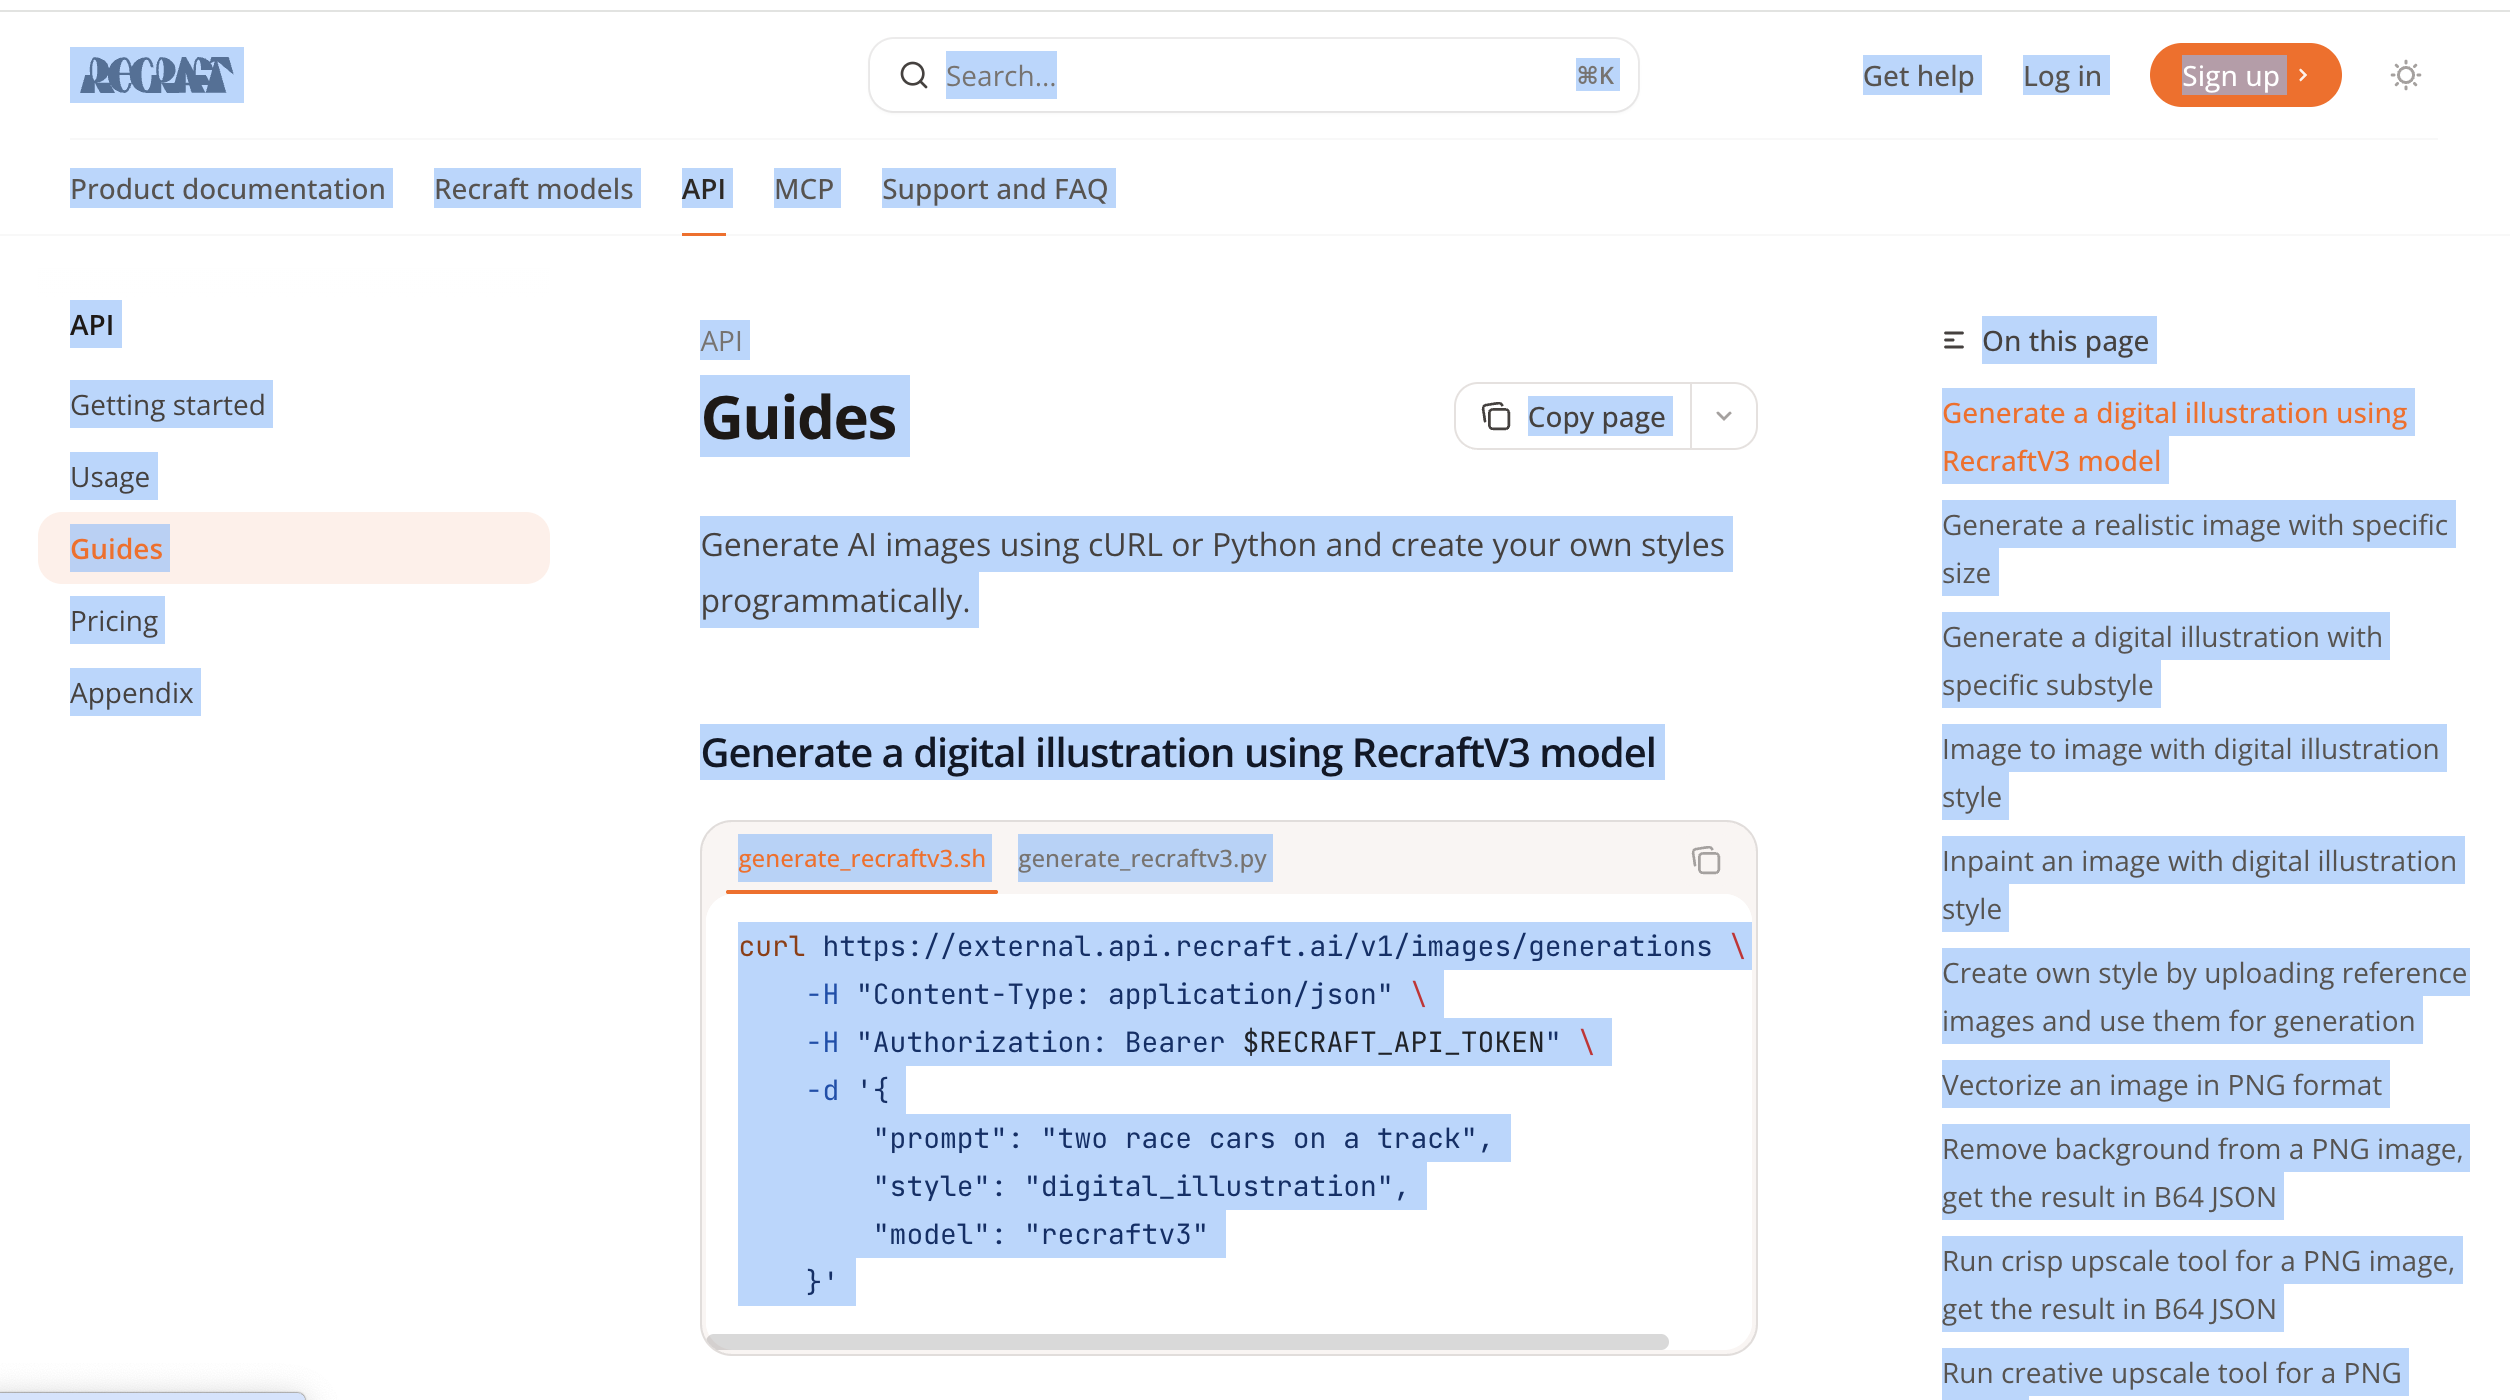
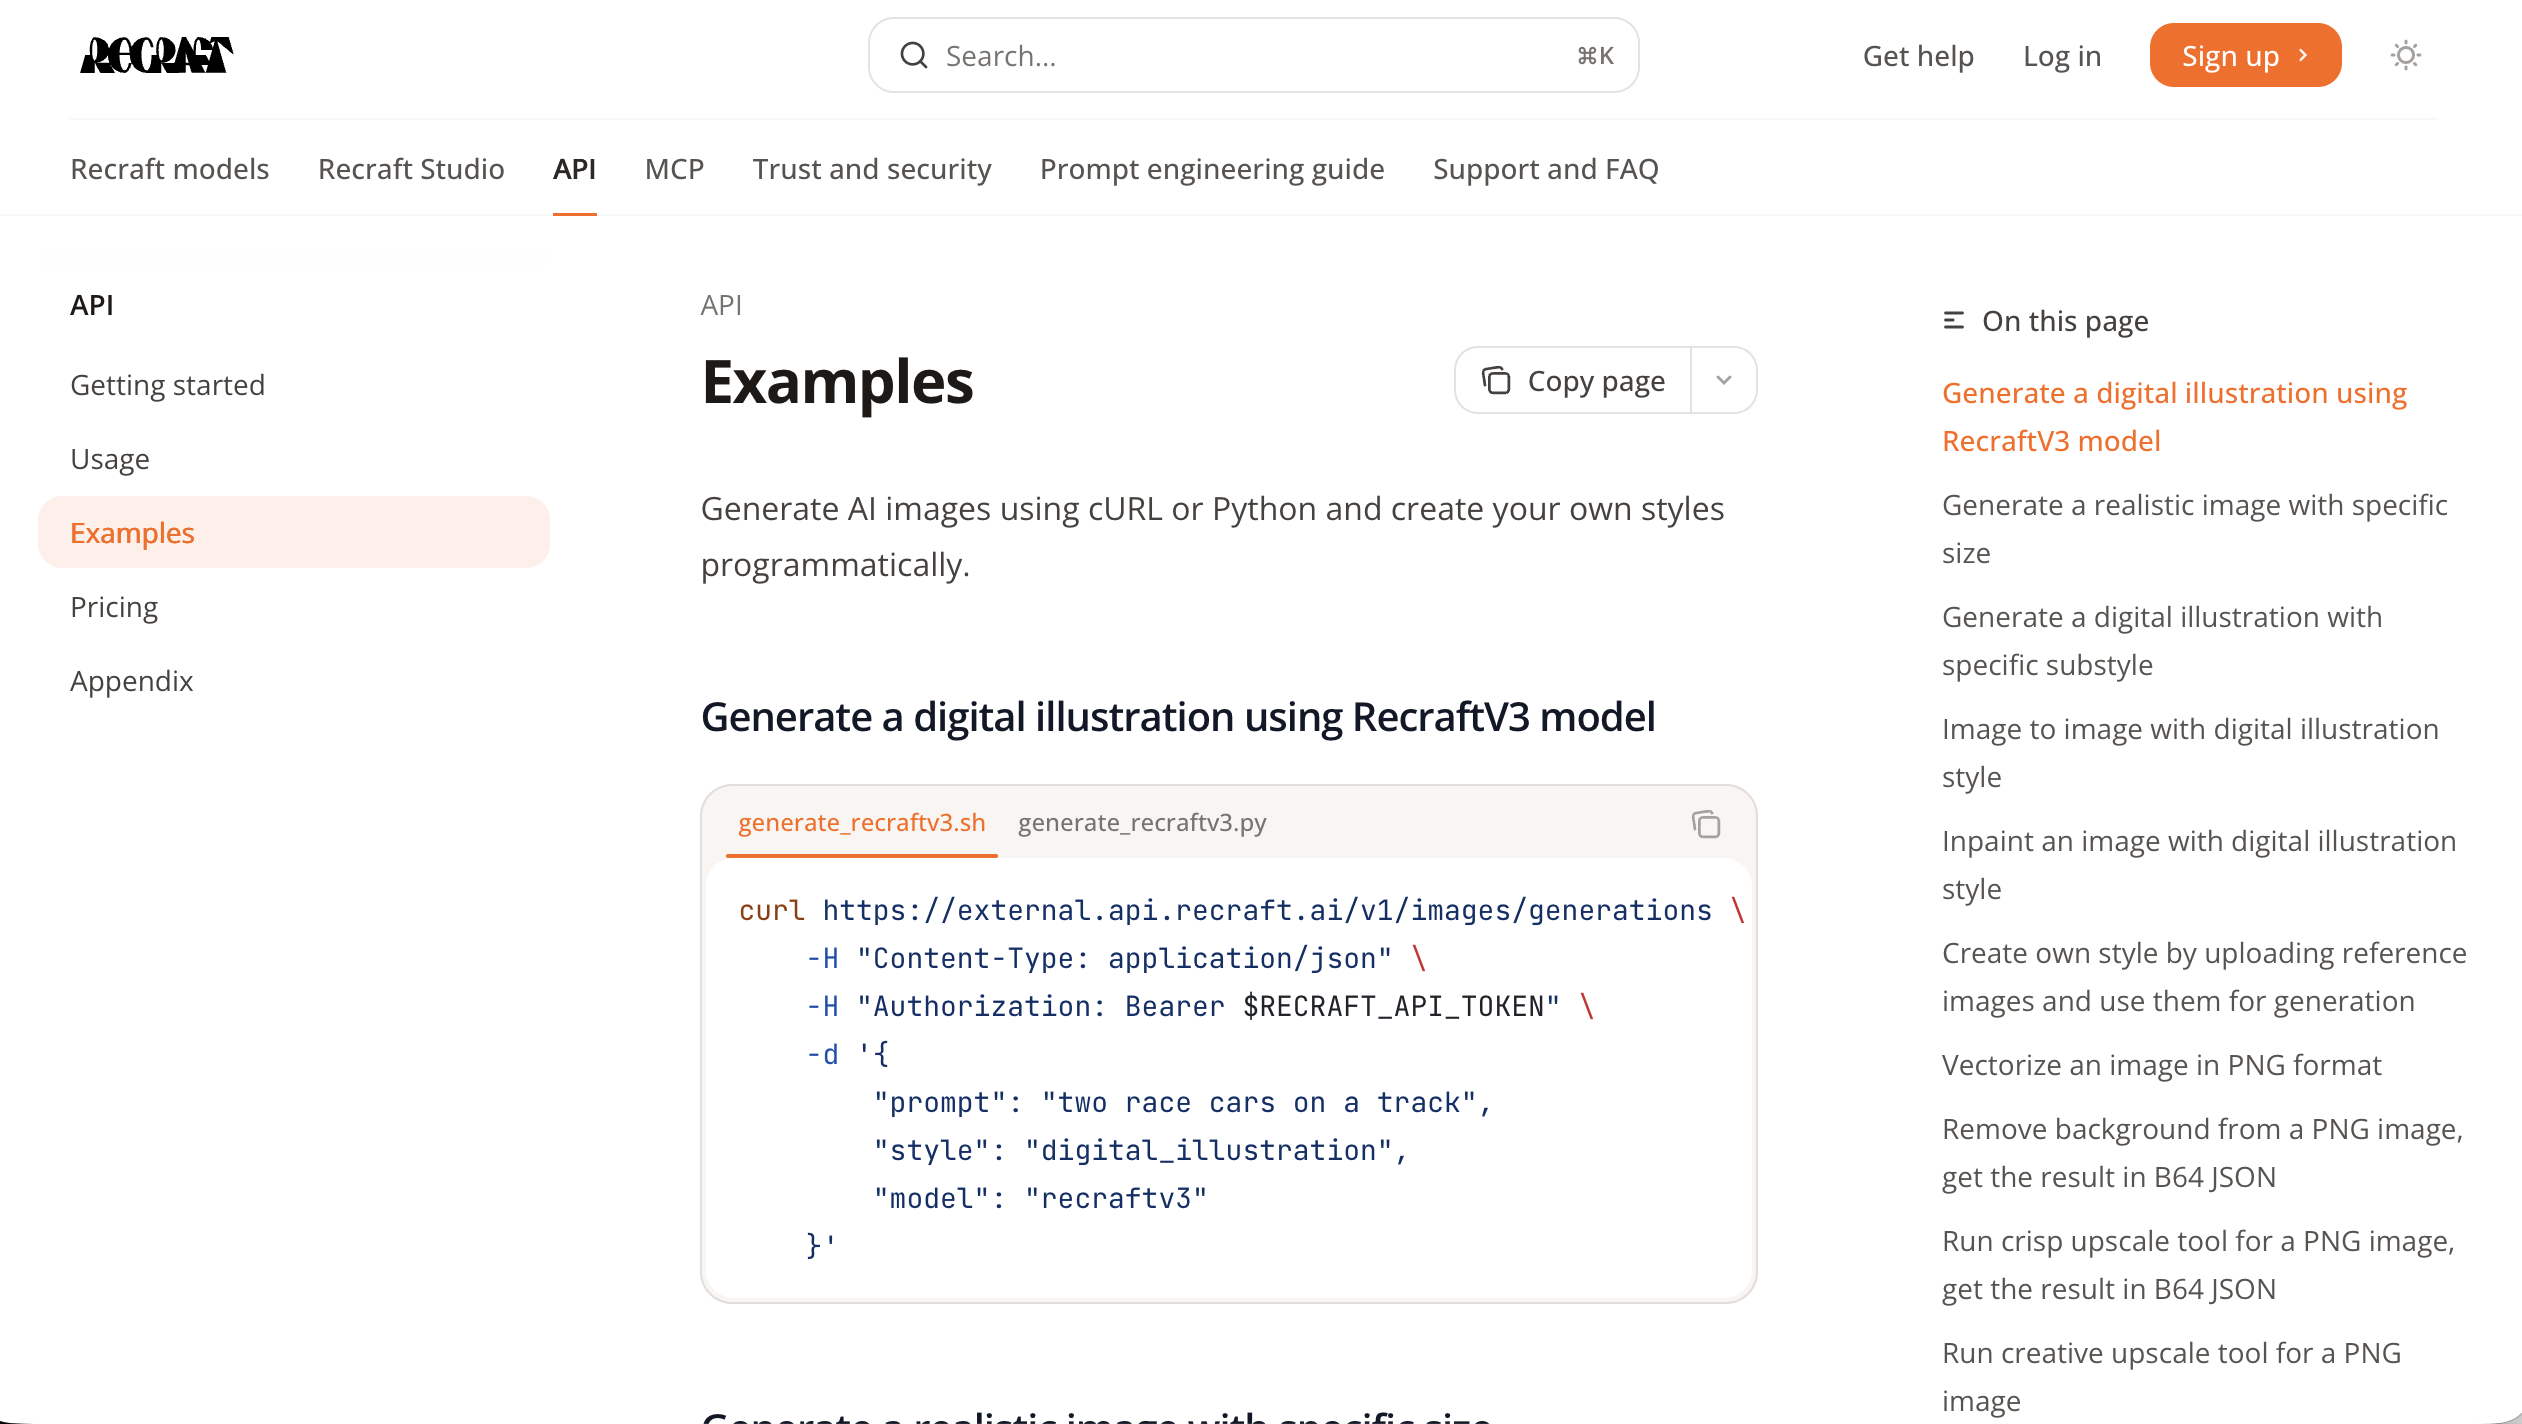
fix

diff --git a/docs/project/chapter1/chapter1-how-to-build-a-snake-game.md b/docs/project/chapter1/chapter1-how-to-build-a-snake-game.md
@@ -395,9 +395,9 @@ https://www.recraft.ai/docs/api-reference/getting-started
 
 https://www.recraft.ai/docs/api-reference/usage
 
-https://www.recraft.ai/docs/api-reference/guides
+https://www.recraft.ai/docs/api-reference/examples#create-own-style-by-uploading-reference-images-and-use-them-for-generation
 
-在这里，我们可以直接复制整个内容并粘贴到 z.ai。
+在这里，我们可以 ctrl+ A 选中全屏，直接复制整个内容并粘贴到 z.ai。
 
 ![](images/image41.png)
 